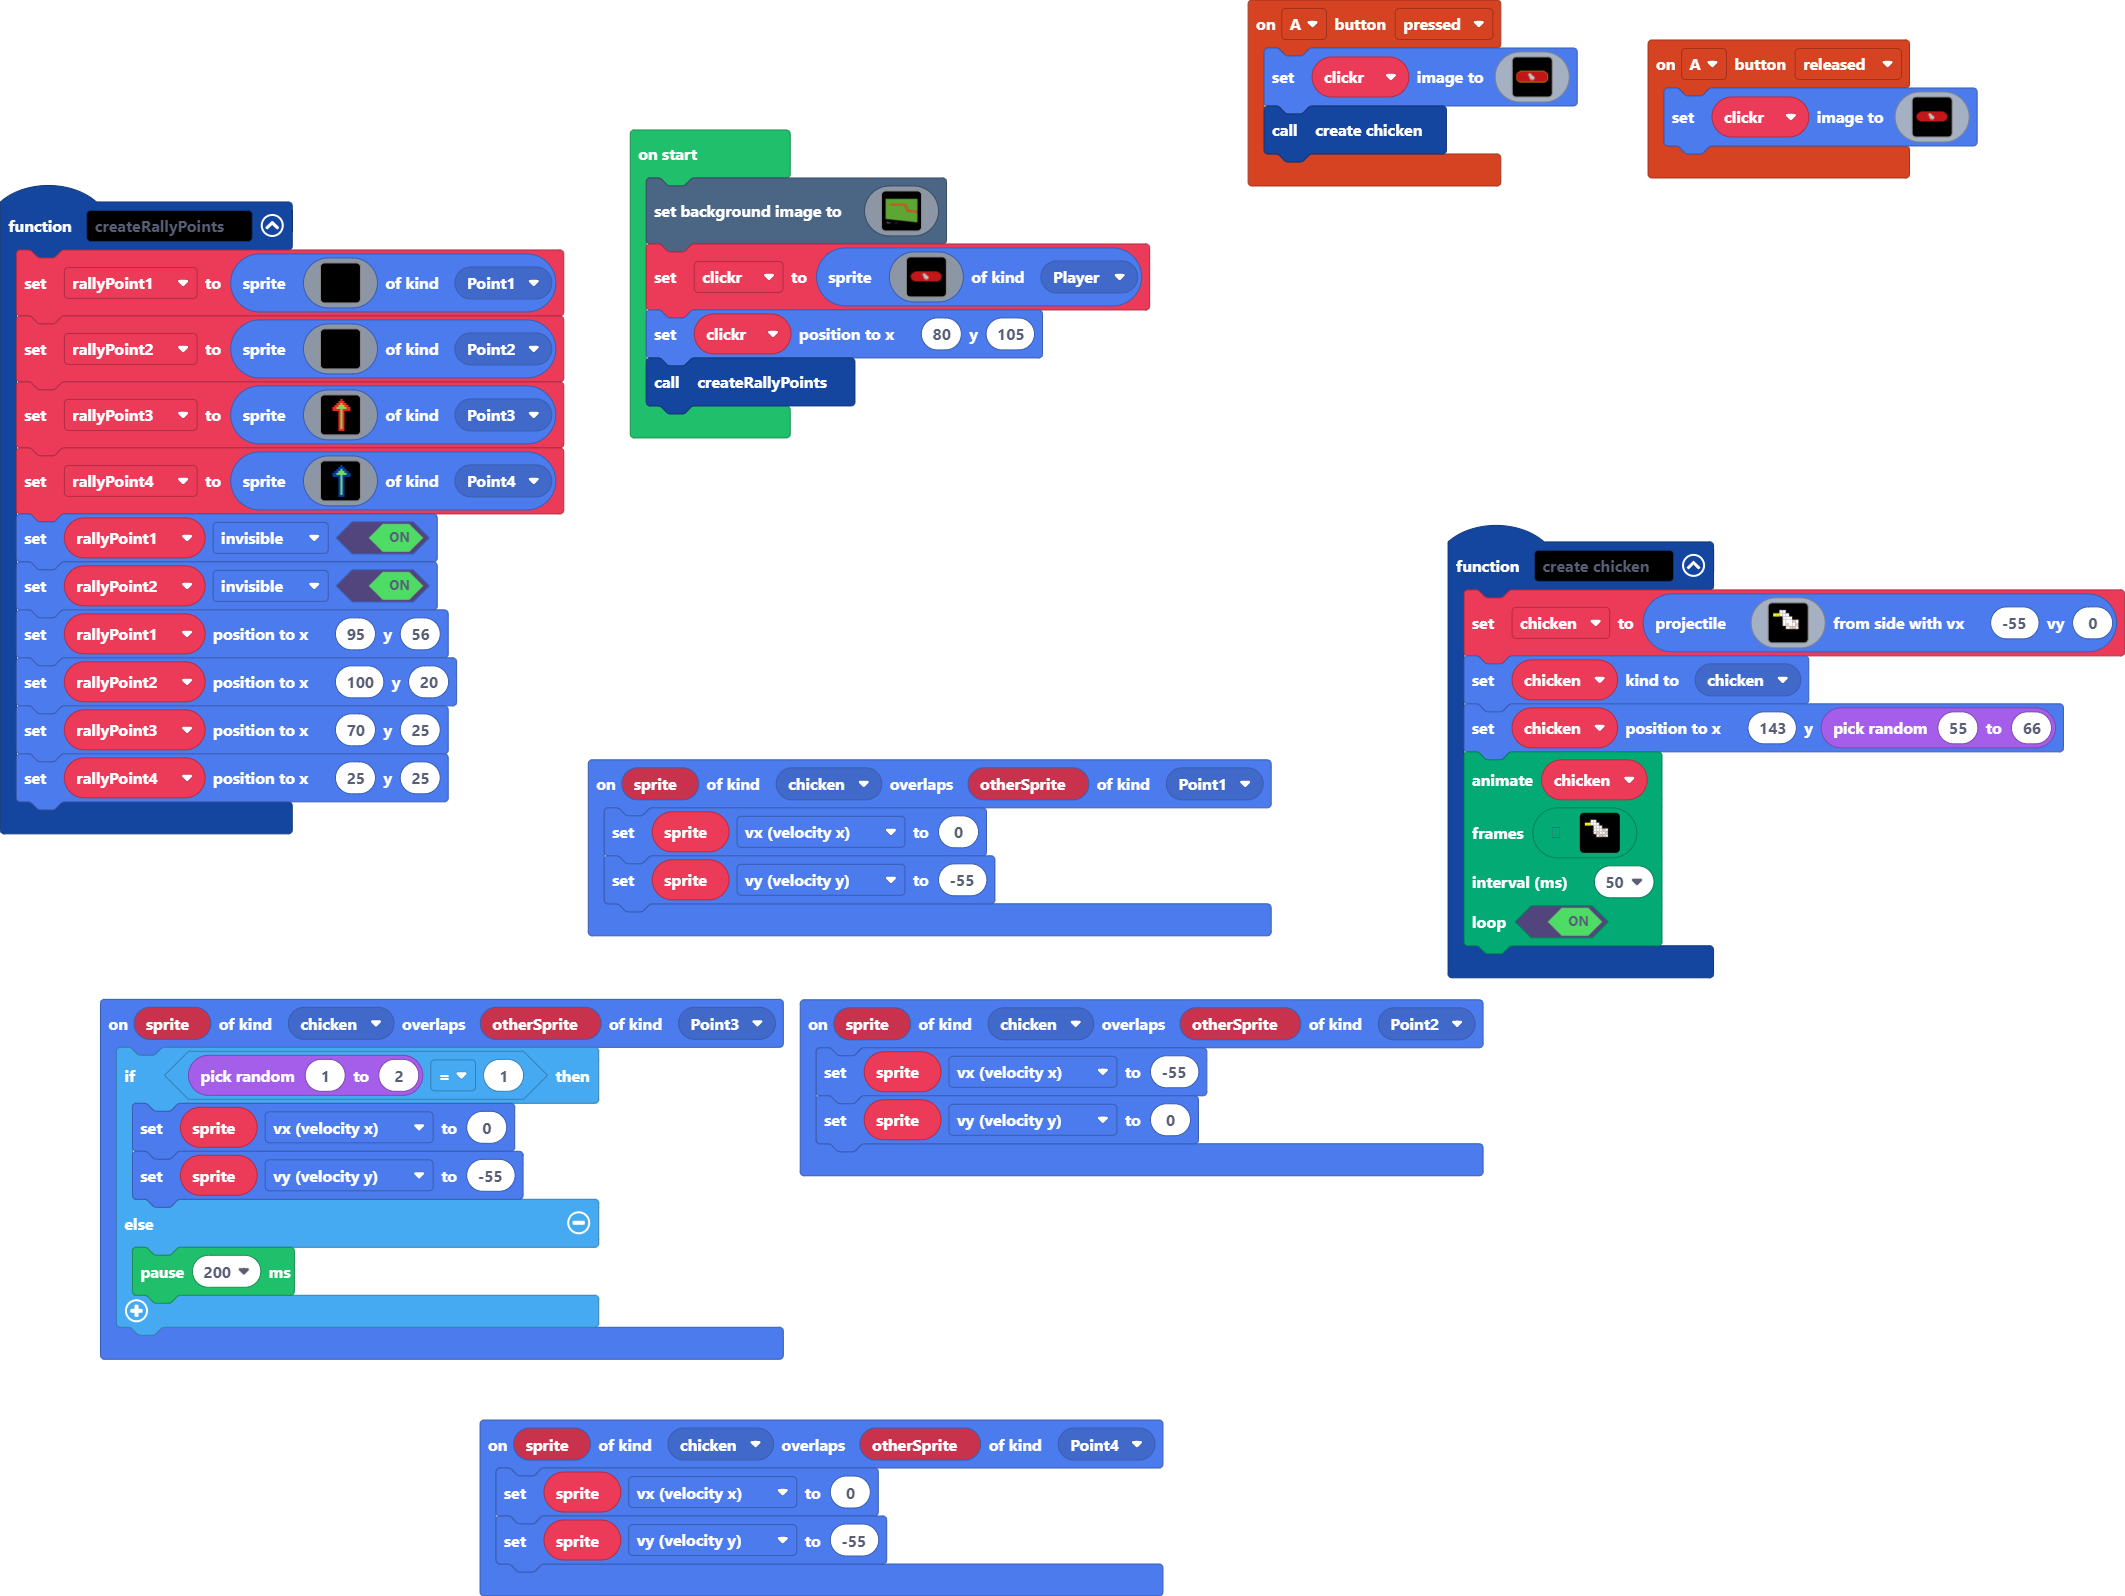
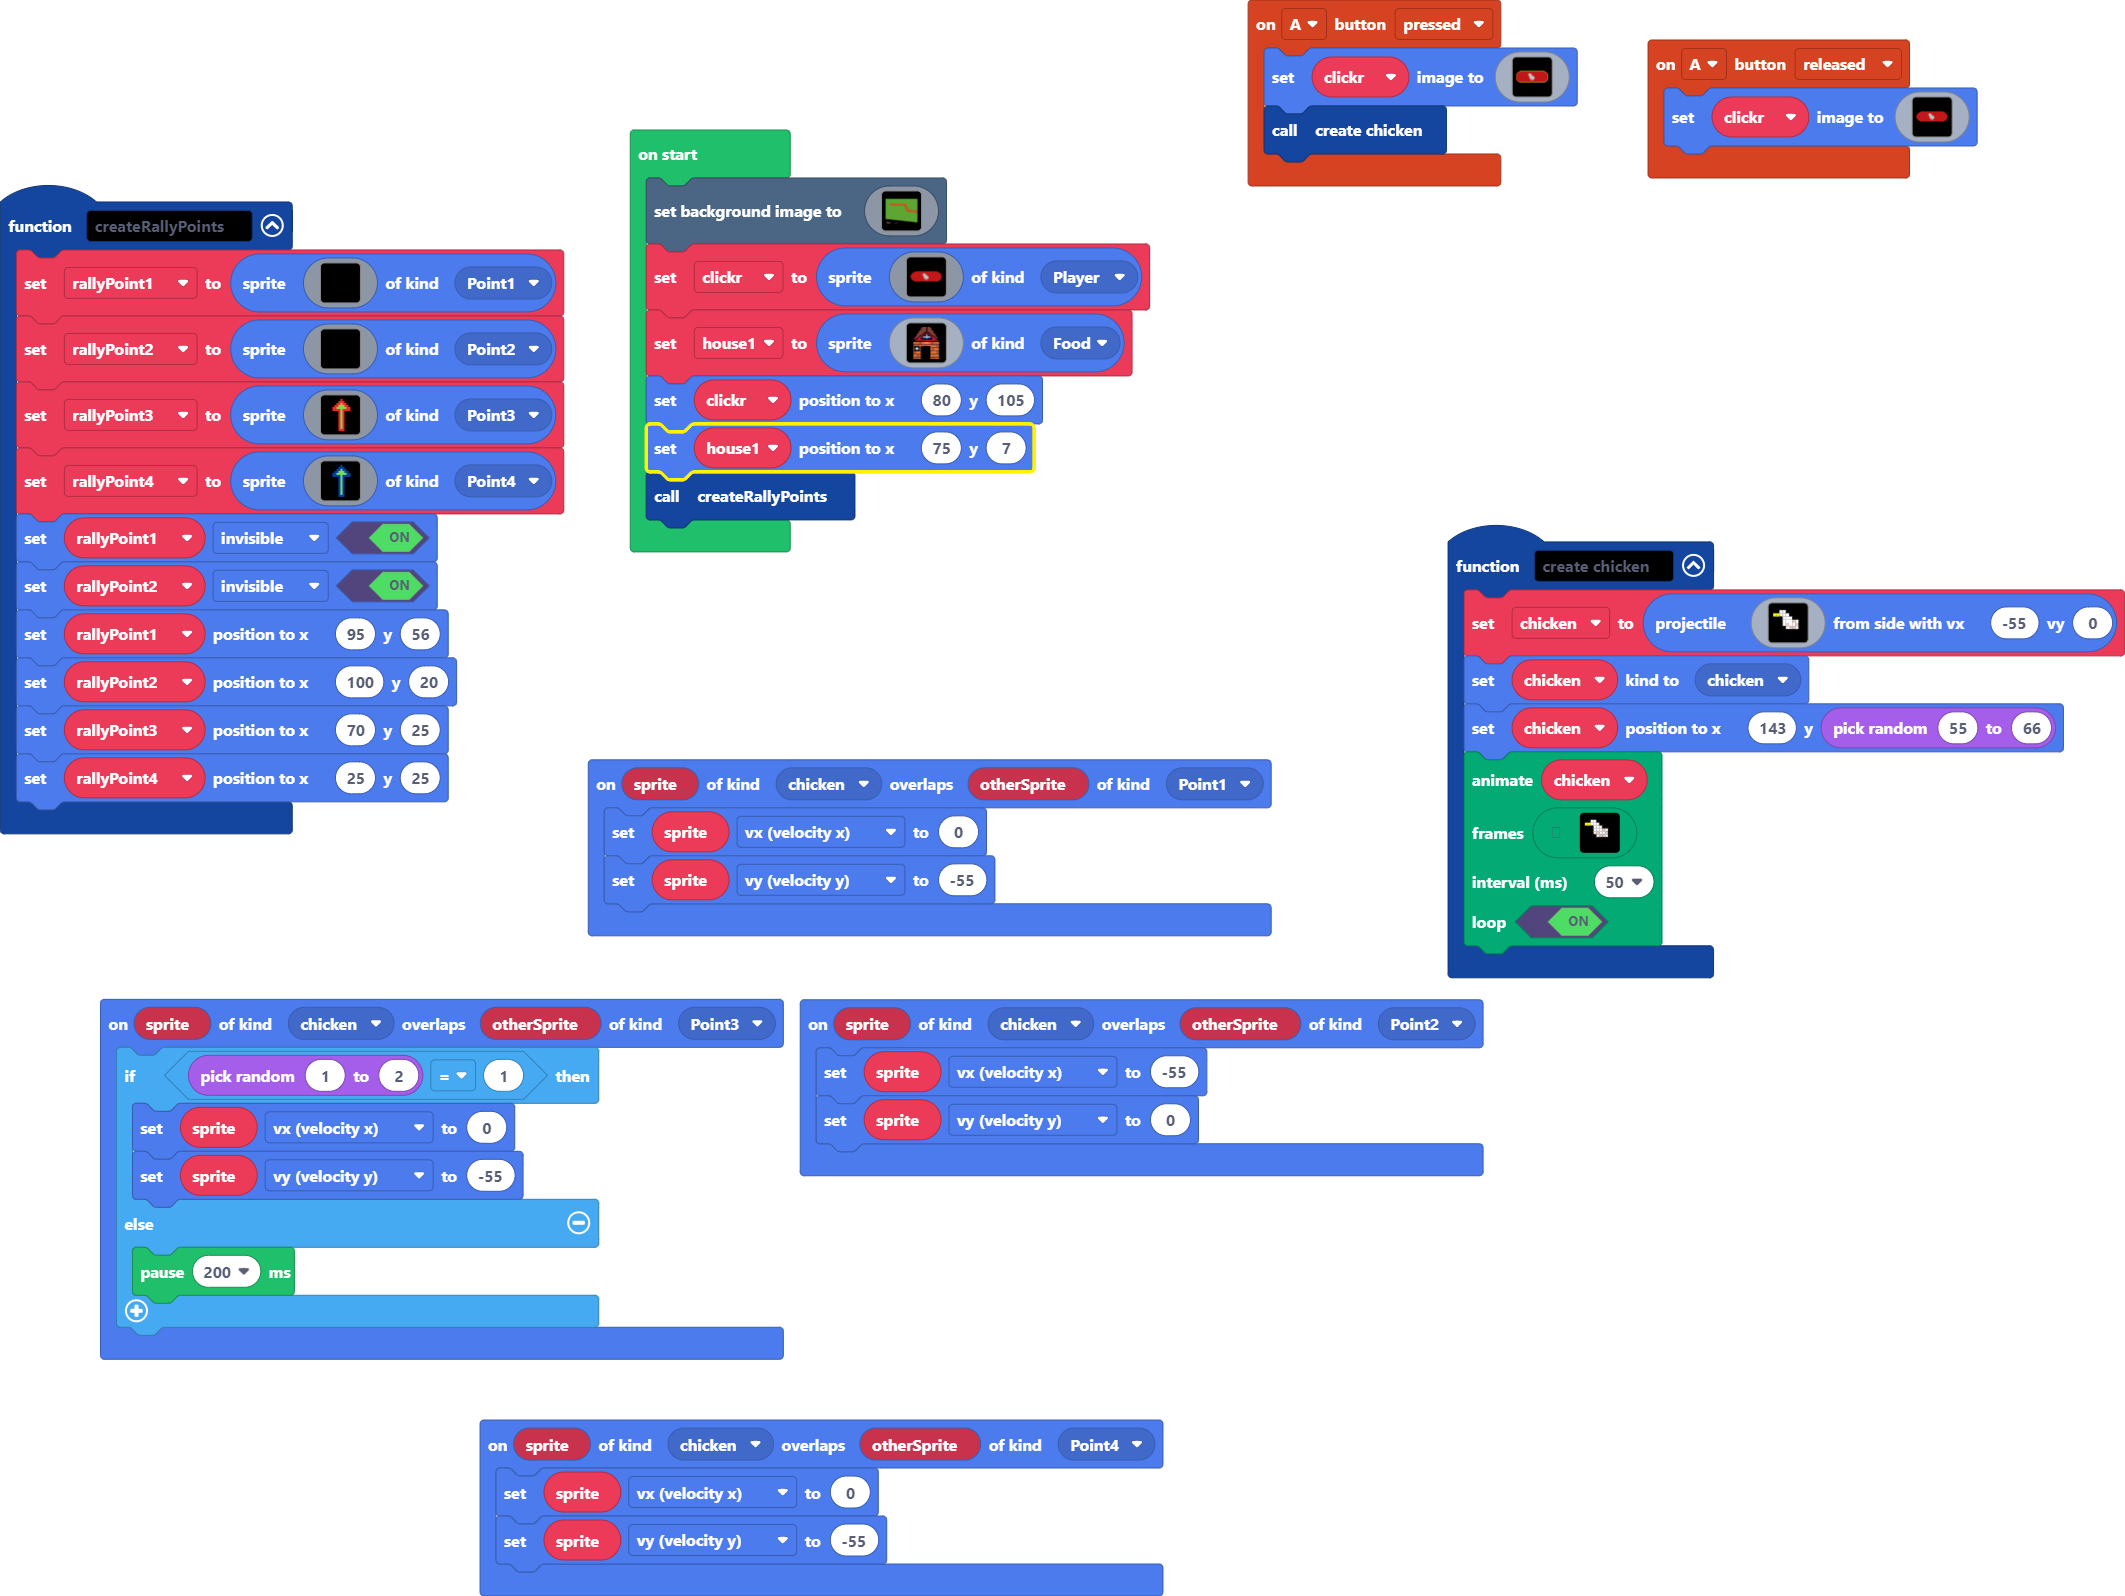
Made a house sprite.

Changed region(s): [[0.2795, 0.1842, 0.5591, 0.3684]]

diff --git a/main.ts b/main.ts
@@ -388,5 +388,38 @@ clickr = sprites.create(img`
     .......ff2222222222222222222222222222222222222222222222222222ff.......
     .........ffffffffffffffffffffffffffffffffffffffffffffffffffff.........
     `, SpriteKind.Player)
+let house1 = sprites.create(img`
+    ..........feeeefeeef..........
+    .........feeeeefeeeef.........
+    .........feeeeefeeeef.........
+    ........feeeeeefeeeeef........
+    .......feeeeeeefeeeeeef.......
+    .......feeeeeff2ffeeeef.......
+    ......feeeeef22f22feeeef......
+    .....feeeeef2ff1ff2feeeef.....
+    .....feeeff2f88188f2ffeef.....
+    ....feeef22f1111111f22feef....
+    ...feeef22f888818888f22feef...
+    ...feff222fffffffffff222fff...
+    ..fff222222222222222222222ff..
+    ..ffffffffffffffffffffffffff..
+    ..f444444e4444444444e444444f..
+    ..f444444e4444444444e444444f..
+    ..feeeeeeeeeeeeeeeeeeeeeeeef..
+    ..fe4444444444e4444444444e4f..
+    ..fefffff4fffffffff444444e4f..
+    ..fef818fefffffffffeeeeeeeef..
+    ..f4f111f4fffffffff44e44444f..
+    ..f4f818f4fffffffff44e44444f..
+    ..fefffffefffffffffeeeeeeeef..
+    ..f4e44444fffffffff444444e4f..
+    ..f4e44444fffffffff444444e4f..
+    ..feeeeeeefffffffffeeeeeeeef..
+    ..f4444e44fffffffff44444444f..
+    ..f4444e44fffffffff44444444f..
+    ..feeeeeeefffffffffeeeeeeeef..
+    ..f44e4444fffffffff44e44444f..
+    `, SpriteKind.Food)
 clickr.setPosition(80, 105)
+house1.setPosition(75, 7)
 createRallyPoints()
